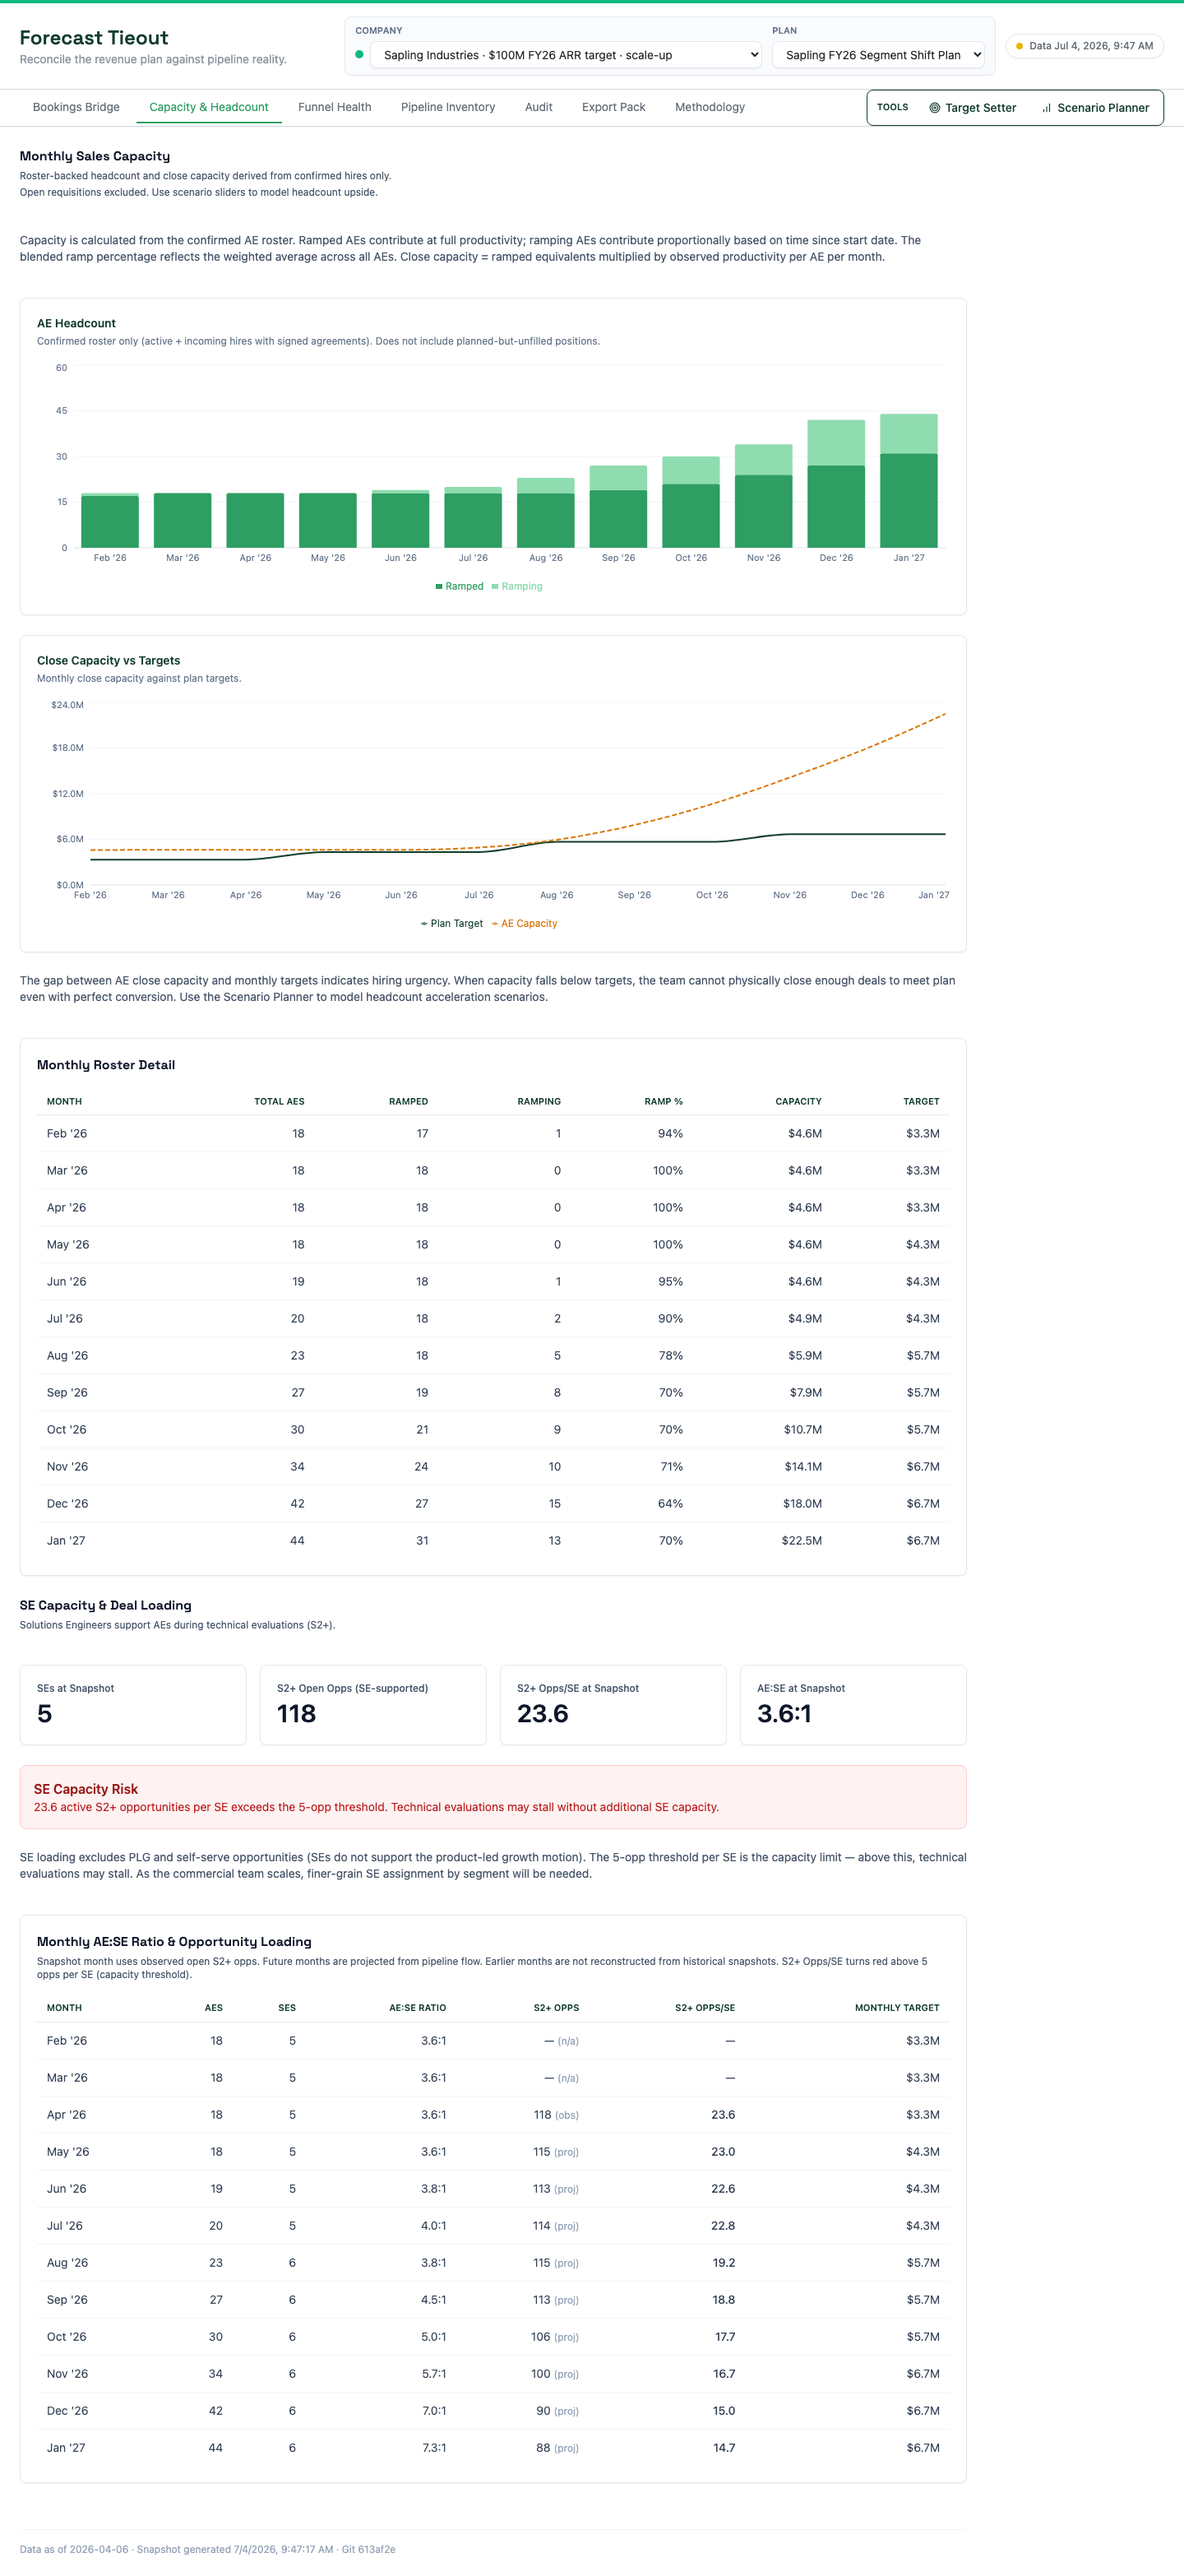
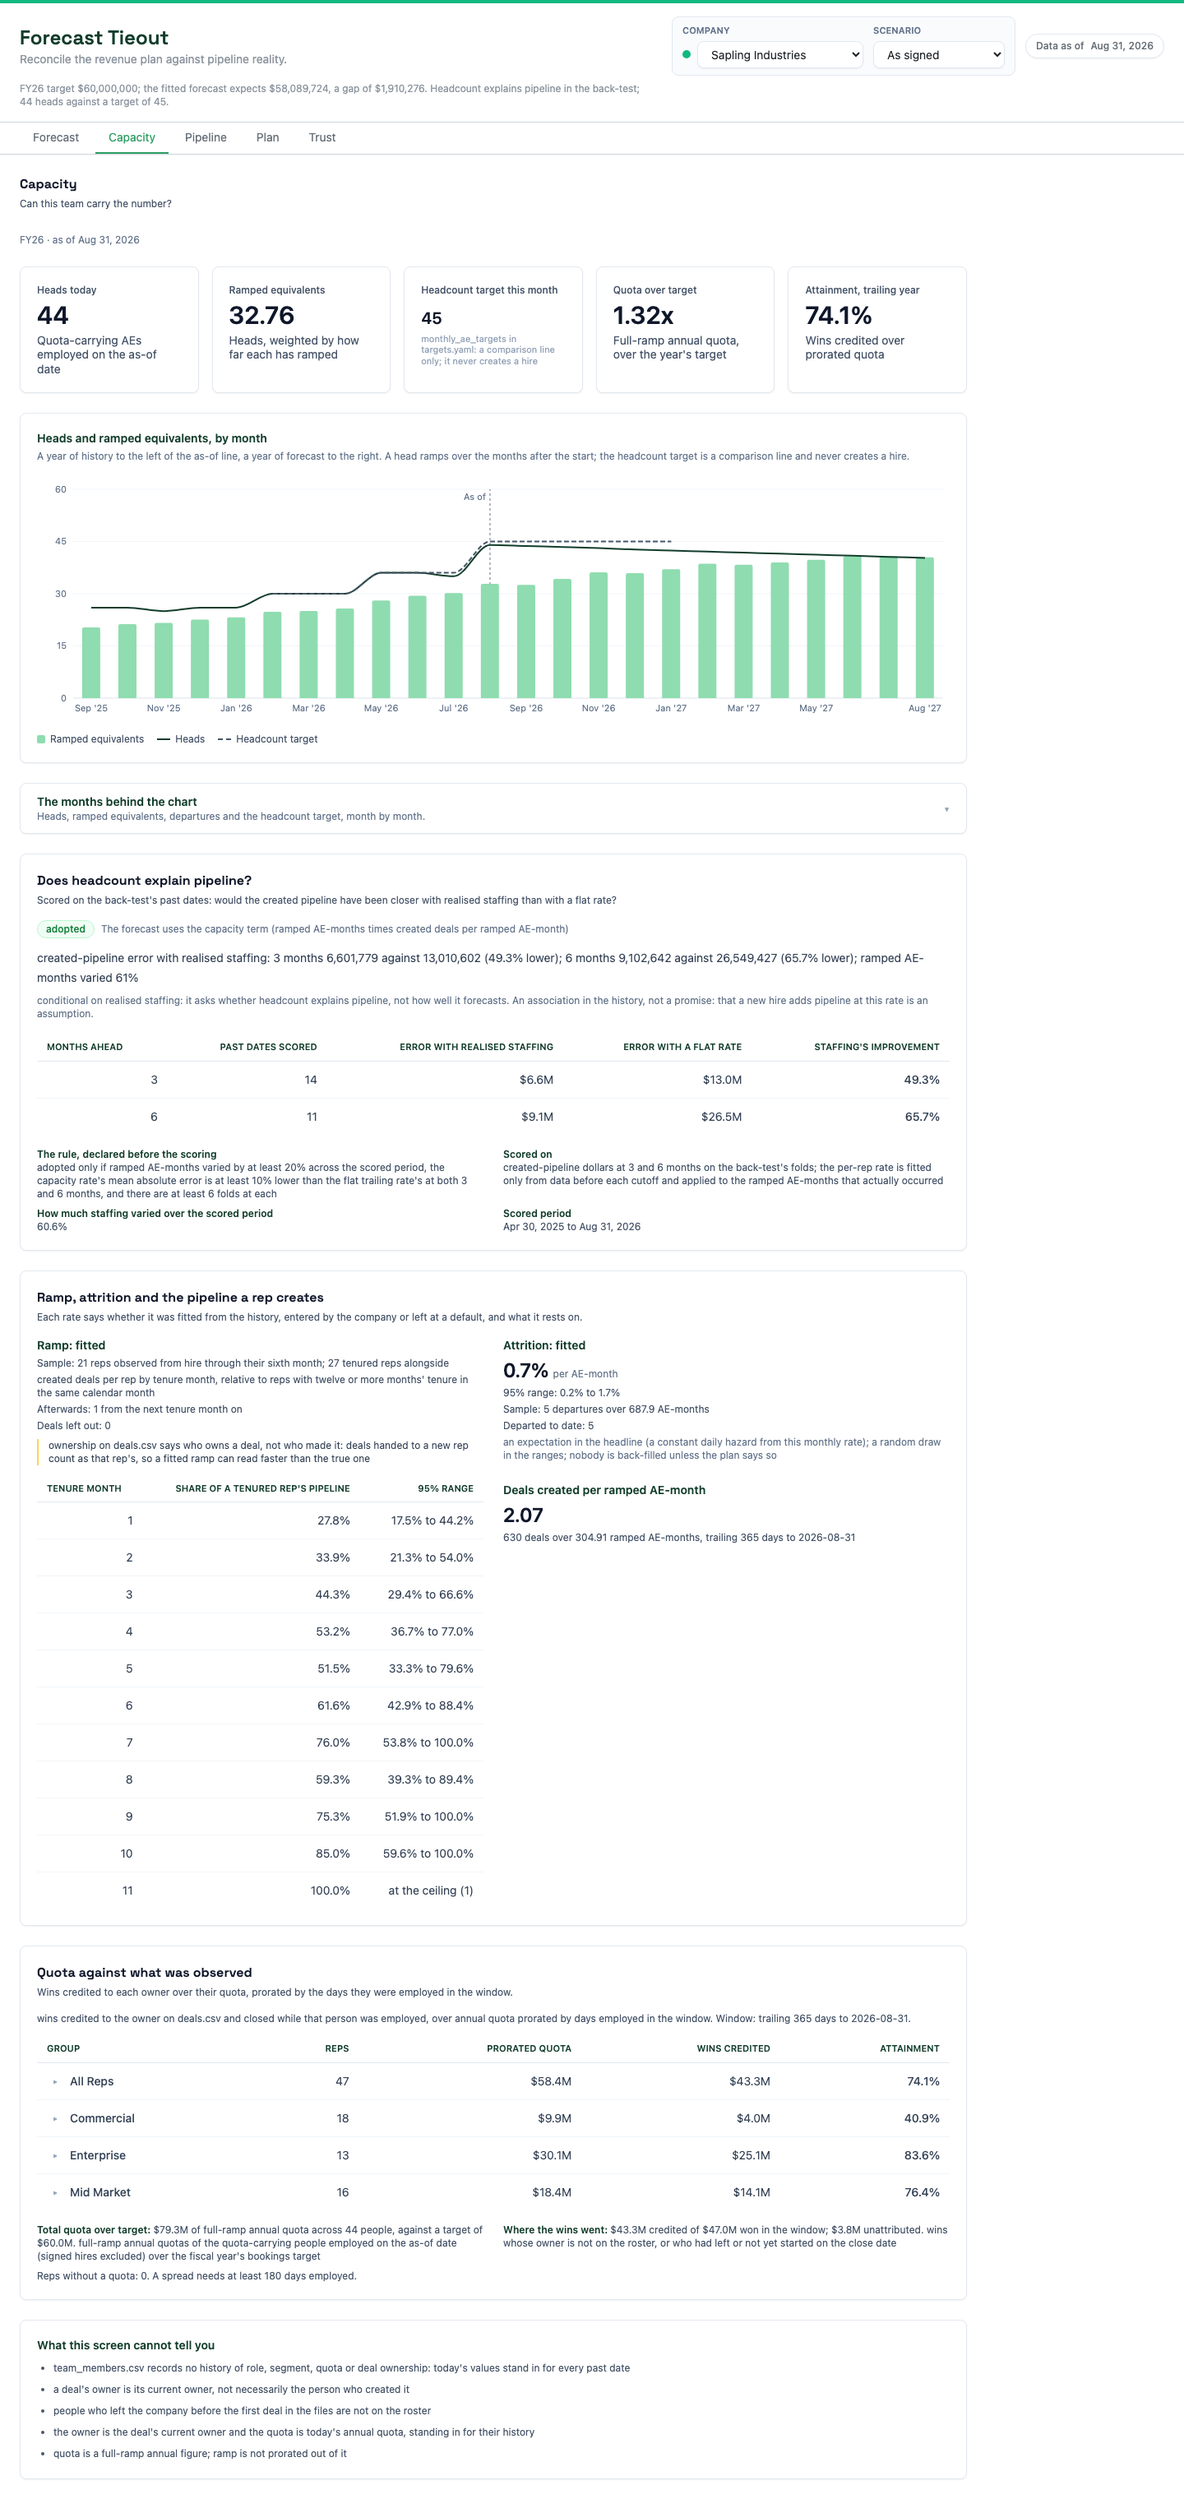
feat(app): screenshots and the Open Graph image come from the new screens
capture-screenshots.mjs now captures Forecast, Capacity, Pipeline, Plan and Trust for Sapling from
the built app with Playwright, plus the Open Graph image: the top of Forecast at 1200 x 630 (laid
out at 1295 x 680 and captured at the matching device scale so the cut falls below the verdict
cards). The OG image was a screenshot of the old Bookings Bridge, so it had a pipeline; it is
repointed in index.html. A test holds the OG size and that index.html names it. The old PNGs stay
until the owner approves their removal.

diff --git a/frontend/src/__tests__/publicAssets.test.ts b/frontend/src/__tests__/publicAssets.test.ts
@@ -1,0 +1,22 @@
+import { readFileSync } from "node:fs";
+import { resolve } from "node:path";
+import { describe, expect, it } from "vitest";
+
+// The images `npm run screenshots` writes: the README's pictures and the Open Graph image.
+const frontend = resolve(__dirname, "../..");
+const publicDir = resolve(frontend, "public/docs/screenshots");
+const read = (path: string) => readFileSync(path, "utf8");
+const pngSize = (file: string) => {
+  const b = readFileSync(file);
+  return [b.readUInt32BE(16), b.readUInt32BE(20)];
+};
+const named = (text: string) => [...text.matchAll(/docs\/screenshots\/([\w.-]+\.png)/g)].map((m) => m[1]);
+
+describe("screenshots and the Open Graph image", () => {
+  it("the Open Graph and Twitter images are the 1200 x 630 capture of Forecast", () => {
+    const html = read(resolve(frontend, "index.html"));
+    const images = named(html);
+    expect(images).toEqual(["og-forecast-sapling.png", "og-forecast-sapling.png"]);
+    expect(pngSize(resolve(publicDir, "og-forecast-sapling.png"))).toEqual([1200, 630]);
+  });
+});

diff --git a/frontend/index.html b/frontend/index.html
@@ -17,7 +17,7 @@
     />
     <meta
       property="og:image"
-      content="https://revenue-trajectory.vercel.app/docs/screenshots/hero-bookings-sapling.png"
+      content="https://revenue-trajectory.vercel.app/docs/screenshots/og-forecast-sapling.png"
     />
     <meta name="twitter:card" content="summary_large_image" />
     <meta name="twitter:title" content="Forecast Tieout" />
@@ -27,7 +27,7 @@
     />
     <meta
       name="twitter:image"
-      content="https://revenue-trajectory.vercel.app/docs/screenshots/hero-bookings-sapling.png"
+      content="https://revenue-trajectory.vercel.app/docs/screenshots/og-forecast-sapling.png"
     />
   </head>
   <body class="bg-surface text-text-primary min-h-screen">
